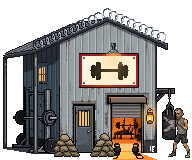
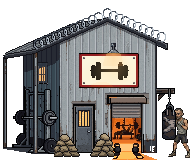
Wire metal Gym art T1-T5 (T4 lantern removed) and ship Police T5 glow (sw v386)
Claude-Session: https://claude.ai/code/session_01ApSBA37DkRXDiT8K7sr3ro

Changed region(s): [[0.7188, 0.625, 0.8438, 0.8438], [0.8125, 0.5938, 0.8438, 0.625]]

diff --git a/docs/ART_STYLE.md b/docs/ART_STYLE.md
@@ -364,7 +364,7 @@ T4), so size, angle and spots stay identical. Ladder as built:
   sandbags on both sides of the door, right of the garage and against the side wall; plated side wall with a 2nd lit window and floodlight; freshly painted
   siding (code); brightest. Jeremy cleaned the wire.
 
-### Gym METAL redraw (`lurkers`, front-row Wide 192x160) -- ALL FIVE TIERS APPROVED + WIRED 2026-11-17 (sw v386; `lurkers_t1..t5.png` = the finals; the old clapboard art stays in `_source/gym-3q`; Jeremy may still touch up the sandbag bottoms in PixelLab -- copy any new file over `lurkers_t*.png` and the `gym-metal` final)
+### Gym METAL redraw (`lurkers`, front-row Wide 192x160) -- ALL FIVE TIERS APPROVED + WIRED 2026-11-17, T4 lantern removed the same day (sw v386; `lurkers_t1..t5.png` = the finals; the old clapboard art stays in `_source/gym-3q`; Jeremy may still touch up the sandbag bottoms in PixelLab -- copy any new file over `lurkers_t*.png` and the `gym-metal` final)
 Why (Jeremy 2026-11-17): the grey clapboard got too dark at the higher tiers, and a metal building reads better as a garage gym. Kept: the roll-up garage door, the dumbbell sign, the heavy bag on its bracket, the squat rack, the kettlebells, the person benching inside. Same 192x160 canvas and the same prop spots, so wiring is a file swap plus re-measuring `VILLAGE_ART_X.lurkers`.
 - **Identity on every tier:** light GALVANIZED corrugated steel (vertical ribs, charcoal trim, charcoal lower band) -- Jeremy picked it over a dusty teal; a GABLE roof with the peak facing us (no other village building has a peak, so it breaks up the flat rooflines); the left roof slope runs on down into an OPEN SIDE BAY on two thin steel posts (front post in front of the squat rack, back post at the far left, both inside the canvas) with the rack under it (Jeremy's photo of a metal building with an open bay); the right eave hangs ~10 px past the wall and ends in a squared trim end; grey STEEL side door with ONE window in its top half (the small front window was removed).
 - **Ladder as built:** **T1** abandoned (from T2): caved-in roof hole with torn sheets (inpaint), crooked faded sign (code shear), lamp gone and three bare wires (black/red/white, copper tips) hanging from a junction box, garage door buckled off its track (inpaint), steel door hanging off its top hinge, dented, window smashed, side window smashed, bag fallen under a sagging bracket, back bay post bent, junk pile kept as debris, darkest pass (sat x0.78, value x0.84). **T2** squatters: much rustier/grimier walls (PixelLab `edit_with_text` pass) + rust on the bay roof (code), big blue tarp near the peak (inpaint), rusty metal patches (code), faded unlit sign, garage down with plywood, door window boarded, side window boarded, one lantern left of the door, rack gone (junk pile: pallet + dented sheet, inpaint), torn bag, duller pass. **T3** normal: garage door HALF down with a smaller spill (so T4/T5 read more lit), rack with an EMPTY bar (no plates yet), lit side window, lit sign. **T4** hardened: cream sign with red border, bars on the side window and door window, sandbag piles both sides of the door, lantern right of the garage, concertina wire along both rakes (code coils with a dark outline so they read against the roof, run out to the end of the right eave), plates on the rack, realistic boxer partly BEHIND the bag (inpaint; the old cartoony boxer was replaced), slightly brighter pass. **T5** stronghold: garage fully up, a different-looking lifter squatting a loaded bar (stocky, bald, grey-streaked beard, black tee -- not a twin of the boxer), pendant light hung high under the bay roof, two wall-mounted FLOODLIGHTS high on the front wall angled out toward the front (lens faces us, light lands on the lower wall, sandbag tops and garage lid; no ground pool), warm sign lamp kept, survivor flag at the right eave, taller sandbag piles (also right of the garage), brightest pass.

diff --git a/sessions/HANDOFF.md b/sessions/HANDOFF.md
@@ -15,7 +15,7 @@ Newest entry at TOP. Every session appends one entry before ending (use `/end-se
 **Did:** `Assets/Village/lurkers_t1..t5.png` are now the galvanized-metal Gym finals (`_source/gym-metal/gym_t*_final_192x160.png`). `VILLAGE_ART_X.lurkers` [2,191] -> [3,191] in `js/config.js` and the `js/villageLayout.js` DEFAULTS (measured: visible columns 3..190 across the five tiers). sw v385 -> v386, which also delivers the Police T5 see-through glow (`defense_t5.png` was already the glow file, byte-identical to the `police-brick` final). Docs: ROADMAP (wiring checked), ART_STYLE "Gym METAL redraw" (wired), DECISIONS 2026-11-17 (wiring).
 **State:** Written through the device link (device_bash failed). Jest in a cloud copy of `test/villageLayout.test.js`: every Gym test green, including the lurkers art-extent measurement and the 5 shipped-tier checks; the other kinds' PNG checks could not run there (their PNGs were not copied), so the full file was not green. `appVersion` not run (needs `js/ui/settingsView.js`). Full `npm test` NOT run. NOT live-checked on a phone or desktop.
 **Next:** Jeremy checks the Gym T1-T5 (`?gymTier=1..5`) and the Police T5 spotlight on a phone (Settings = v386), then `npm test` on the PC, then the next building's art (Clock tower back Narrow tall, Windmill / Radio far; Opus) or the Village 2.0 re-arrangement.
-**Watch out:** T5 has ~860 semi-transparent glow pixels: keep them when editing. T4 keeps its lantern. The test title "authored 128x128 canvas" in `villageLayout.test.js` is stale (it really checks 192x160); left alone. The Police RED-BRICK redraw still has no HANDOFF / DECISIONS entry of its own (ART_STYLE says done + wired, sw v384). Docs have reverted on this device before: check `git diff` shows this entry on top of `sessions/HANDOFF.md`.
+**Watch out:** T5 has ~860 semi-transparent glow pixels: keep them when editing. T4's lantern was REMOVED later the same day (wall repainted from the clean strip above; `gym_t4_final_lantern_192x160.png` keeps the old one). The test title "authored 128x128 canvas" in `villageLayout.test.js` is stale (it really checks 192x160); left alone. The Police RED-BRICK redraw still has no HANDOFF / DECISIONS entry of its own (ART_STYLE says done + wired, sw v384). Docs have reverted on this device before: check `git diff` shows this entry on top of `sessions/HANDOFF.md`.
 
 ## 2026-11-17 — Gym METAL redraw T1-T5 + see-through light technique (Opus 5.5, Claude app, PixelLab API + code)
 **Did:** Redrew the Gym (`lurkers`) as a galvanized METAL building, all five tiers approved by Jeremy (who then cleaned them up in PixelLab; his versions are the finals): `Assets/Village/_source/gym-metal/gym_t1..t5_final_192x160.png` (+ drafts, layout drafts, `scripts/`), PixelLab gallery "Deadline Gym T1..T5 METAL FINAL". Identity: galvanized corrugated steel (picked over teal), gable roof facing us, open side bay on two posts over the squat rack, overhanging right eave, steel door with one window, same 192x160 canvas and prop spots. New SEE-THROUGH LIGHT technique (light past the silhouette = semi-transparent pixels): Gym T5 pendant + floodlights, and the Police station T5 roof spotlight (`Assets/Village/defense_t5.png` + `_source/police-brick/police_t5_final_160x160.png` replaced in place). Docs: ART_STYLE "Gym METAL redraw" + "Light technique: see-through glow" (old Gym brief marked superseded), DECISIONS 2026-11-17, ROADMAP (metal art checked, wiring added). ~490 PixelLab generations (1,371 -> 831 left).

diff --git a/docs/DECISIONS.md b/docs/DECISIONS.md
@@ -7,6 +7,7 @@ Append-only. Newest at top. Format: date — decision — why — alternatives r
 ## 2026-11-17 (wiring the metal Gym + Police T5 glow) -- Claude app session, Sonnet 5.5; Jeremy ("lets wire in the new gym artwork and swap out the police station t5 with the transparent glow for the spotlight")
 - **The metal Gym is live:** `Assets/Village/lurkers_t1..t5.png` are now `_source/gym-metal/gym_t1..t5_final_192x160.png` (192x160, same canvas, same prop spots). The clapboard art is kept in `_source/gym-3q`. `CONFIG.VILLAGE_ART_X.lurkers` (and the `villageLayout.js` DEFAULTS copy) [2,191] -> [3,191], measured from the five PNGs (visible columns 3..190); `right: -323` unchanged, so the art's left edge moves 1px right and nothing else shifts.
 - **Police station T5 glow:** `defense_t5.png` was already the see-through-glow version (identical to `_source/police-brick/police_t5_final_160x160.png`), so nothing was swapped; the sw bump below is what ships it.
+- **Gym T4 lantern removed (Jeremy, same day):** the wall strip right of the garage door was repainted from the clean wall above it (glow tint on the door-frame edge columns cleaned too); alpha untouched, so the art extent is unchanged. Old version kept as `gym-metal/gym_t4_final_lantern_192x160.png`. T5 already had no lantern.
 - **sw v385 -> v386** (ships both). No balance numbers touched.
 
 ## 2026-11-17 (Gym METAL redraw + see-through light) -- Claude app session, Opus 5.5; Jeremy ("the grey can be too dark at higher tiers... make the building look more like a metal building and keeping the garage door")
